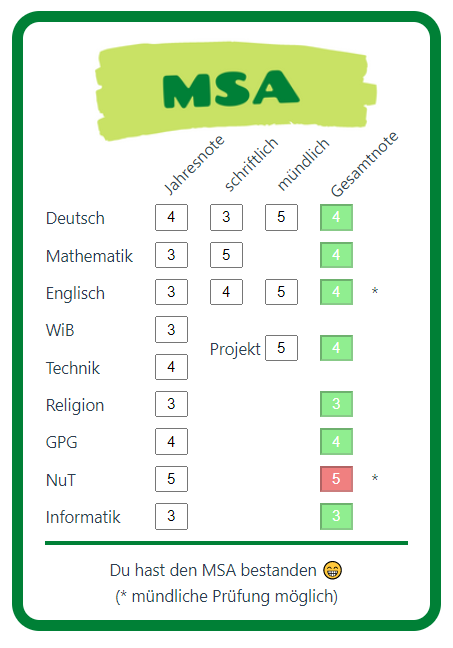
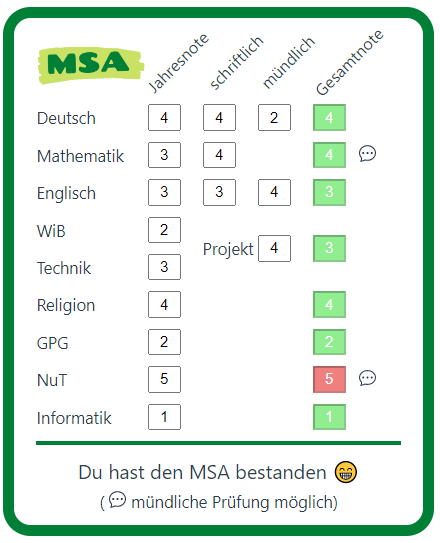
Styling angepasst.

diff --git a/src/components/Rechner.vue b/src/components/Rechner.vue
@@ -8,6 +8,8 @@ import FachGPG from "./FachGPG.vue";
 import FachNuT from "./FachNuT.vue";
 import FachInformatik from "./FachInformatik.vue";
 import Notenheader from "./Notenheader.vue";
+import IconMuendlich from "./icons/IconMuendlich.vue";
+import IconSmileyGood from "./icons/IconSmileyGood.vue";
 
 export default {
   components: {
@@ -19,6 +21,8 @@ export default {
     FachGPG,
     FachNuT,
     FachInformatik,
+    IconMuendlich,
+    IconSmileyGood,
     Notenheader,
   },
   mounted() {
@@ -57,7 +61,7 @@ export default {
       if (count5 > 1 || count6 > 0) {
         this.info = "Du hast den MSA nicht bestanden 😭";
       } else {
-        this.info = "Du hast den MSA bestanden 😁";
+        this.info = "Du hast den MSA bestanden 😁" ;
       }
     },
   },
@@ -75,10 +79,9 @@ export default {
   <FachNuT @getFachNote="handleGetGesamtNote"></FachNuT>
   <FachInformatik @getFachNote="handleGetGesamtNote"></FachInformatik>
   <div class="trenner"></div>
-
   <div>
-    <div style="text-align: center">{{ info }}</div>
-    <div style="text-align: center">(* mündliche Prüfung möglich)</div>
+    <div style="text-align: center; font-size: 1.2em;">{{ info }}</div>
+    <div style="text-align: center">( <IconMuendlich></IconMuendlich> mündliche Prüfung möglich)</div>
   </div>
 </template>
 

diff --git a/src/components/FachEnglisch.vue b/src/components/FachEnglisch.vue
@@ -32,19 +32,14 @@ export default {
       this[typ] = parseInt(note);
       this.calculateGesamtnote();
     },
-    /*let pruefungsnote = Math.round((this.schriftlich * 3 + this.muendlich) / 4);
-      console.log("Prüfungsnote " + pruefungsnote)
-      this.gesamtnote = Math.round((this.jahresnote + pruefungsnote) / 2);*/
     calculateGesamtnote() {
       let pruefungsnote = Math.round((this.schriftlich * 2 + this.muendlich) / 3);
       //Gesamtnote auf zwei Stellen gerundet
       let tempGesamtnote = Math.round(((this.jahresnote + pruefungsnote) / 2) * 100) / 100;
-      console.log("Gesamtnote Englisch: " + tempGesamtnote);
       //Prüfungsnote überwiegt?
       this.gesamtnote = this.gUpdatePruefungsnoteUeberwiegt(pruefungsnote, this.jahresnote, tempGesamtnote);
       //Mündliche Prüfung möglich?
       if (this.gIsMuendlichePruefungHauptfach(pruefungsnote, this.jahresnote, this.gesamtnote)) {
-        console.log("Mündliche Prüfung in Englisch möglich");
         this.info = "*";
       } else {
         this.info = "";
@@ -93,10 +88,4 @@ h3 {
   text-align: center;
 }
 
-@media (min-width: 1024px) {
-  .fach h1,
-  .fach h3 {
-    text-align: left;
-  }
-}
 </style>

diff --git a/src/components/FachDeutsch.vue b/src/components/FachDeutsch.vue
@@ -3,6 +3,7 @@ import Notenfeld from "./Notenfeld.vue";
 import Gesamtnote from "./Gesamtnote.vue";
 import globalFunctions from "./mixins/globalFunctions";
 import Notenplatzhalter from "./Notenplatzhalter.vue";
+
 import InfoIcon from "./InfoIcon.vue";
 
 export default {
@@ -37,12 +38,10 @@ export default {
       let pruefungsnote = Math.round((this.schriftlich * 3 + this.muendlich) / 4);
       //Gesamtnote auf zwei Stellen gerundet
       let tempGesamtnote = Math.round(((this.jahresnote + pruefungsnote) / 2) * 100) / 100;
-      console.log("Gesamtnote Deutsch: " + tempGesamtnote);
       //Prüfungsnote überwiegt?
       this.gesamtnote = this.gUpdatePruefungsnoteUeberwiegt(pruefungsnote, this.jahresnote, tempGesamtnote);
       //Mündliche Prüfung möglich?
       if (this.gIsMuendlichePruefungHauptfach(pruefungsnote, this.jahresnote, this.gesamtnote)) {
-        console.log("Mündliche Prüfung in Deutsch möglich");
         this.info = "*";
       } else {
         this.info = "";
@@ -92,10 +91,4 @@ h3 {
   text-align: center;
 }
 
-@media (min-width: 1024px) {
-  .fach h1,
-  .fach h3 {
-    text-align: left;
-  }
-}
 </style>

diff --git a/src/components/FachMathematik.vue b/src/components/FachMathematik.vue
@@ -35,12 +35,10 @@ export default {
       let pruefungsnote = this.schriftlich;
       //Gesamtnote auf zwei Stellen gerundet
       let tempGesamtnote = Math.round(((this.jahresnote + pruefungsnote) / 2) * 100) / 100;
-      console.log("Gesamtnote Mathematik: " + tempGesamtnote);
       //Prüfungsnote überwiegt?
       this.gesamtnote = this.gUpdatePruefungsnoteUeberwiegt(pruefungsnote, this.jahresnote, tempGesamtnote);
       //Mündliche Prüfung möglich?
       if (this.gIsMuendlichePruefungHauptfach(pruefungsnote, this.jahresnote, this.gesamtnote)) {
-        console.log("Mündliche Prüfung in Mathematik möglich");
         this.info = "*";
       } else {
         this.info = "";
@@ -89,10 +87,4 @@ h3 {
   text-align: center;
 }
 
-@media (min-width: 1024px) {
-  .fach h1,
-  .fach h3 {
-    text-align: left;
-  }
-}
 </style>

diff --git a/src/components/icons/IconMuendlich.vue b/src/components/icons/IconMuendlich.vue
@@ -1,0 +1,8 @@
+<template>
+  <svg xmlns="http://www.w3.org/2000/svg" width="16" height="16" fill="currentColor" class="bi bi-chat-dots" viewBox="0 0 16 16">
+    <path d="M5 8a1 1 0 1 1-2 0 1 1 0 0 1 2 0zm4 0a1 1 0 1 1-2 0 1 1 0 0 1 2 0zm3 1a1 1 0 1 0 0-2 1 1 0 0 0 0 2z" />
+    <path
+      d="m2.165 15.803.02-.004c1.83-.363 2.948-.842 3.468-1.105A9.06 9.06 0 0 0 8 15c4.418 0 8-3.134 8-7s-3.582-7-8-7-8 3.134-8 7c0 1.76.743 3.37 1.97 4.6a10.437 10.437 0 0 1-.524 2.318l-.003.011a10.722 10.722 0 0 1-.244.637c-.079.186.074.394.273.362a21.673 21.673 0 0 0 .693-.125zm.8-3.108a1 1 0 0 0-.287-.801C1.618 10.83 1 9.468 1 8c0-3.192 3.004-6 7-6s7 2.808 7 6c0 3.193-3.004 6-7 6a8.06 8.06 0 0 1-2.088-.272 1 1 0 0 0-.711.074c-.387.196-1.24.57-2.634.893a10.97 10.97 0 0 0 .398-2z"
+    />
+  </svg>
+</template>

diff --git a/src/components/icons/IconSmileyBad.vue b/src/components/icons/IconSmileyBad.vue
@@ -1,0 +1,8 @@
+<template>
+  <svg xmlns="http://www.w3.org/2000/svg" width="16" height="16" fill="currentColor" class="bi bi-chat-dots" viewBox="0 0 16 16">
+    <path d="M5 8a1 1 0 1 1-2 0 1 1 0 0 1 2 0zm4 0a1 1 0 1 1-2 0 1 1 0 0 1 2 0zm3 1a1 1 0 1 0 0-2 1 1 0 0 0 0 2z" />
+    <path
+      d="m2.165 15.803.02-.004c1.83-.363 2.948-.842 3.468-1.105A9.06 9.06 0 0 0 8 15c4.418 0 8-3.134 8-7s-3.582-7-8-7-8 3.134-8 7c0 1.76.743 3.37 1.97 4.6a10.437 10.437 0 0 1-.524 2.318l-.003.011a10.722 10.722 0 0 1-.244.637c-.079.186.074.394.273.362a21.673 21.673 0 0 0 .693-.125zm.8-3.108a1 1 0 0 0-.287-.801C1.618 10.83 1 9.468 1 8c0-3.192 3.004-6 7-6s7 2.808 7 6c0 3.193-3.004 6-7 6a8.06 8.06 0 0 1-2.088-.272 1 1 0 0 0-.711.074c-.387.196-1.24.57-2.634.893a10.97 10.97 0 0 0 .398-2z"
+    />
+  </svg>
+</template>

diff --git a/src/components/FachProjekt.vue b/src/components/FachProjekt.vue
@@ -32,10 +32,8 @@ export default {
     },
     calculateGesamtnote() {
       this.gesamtnote = Math.round((this.jahresnoteWiB + this.jahresnoteBoz + this.projektnote * 2) / 4);
-      console.log(this.gesamtnote);
       //Mündliche Prüfung? Wenn Jahresnote 5 oder 6 ist
       if (this.jahresnoteWiB >= 5 || this.jahresnoteBoz >= 5) {
-        console.log("Mündliche Prüfung in WiB/BoZ möglich");
         this.info = "*";
       } else {
         this.info = "";
@@ -111,10 +109,4 @@ h3 {
   text-align: center;
 }
 
-@media (min-width: 1024px) {
-  .fach h1,
-  .fach h3 {
-    text-align: left;
-  }
-}
 </style>

diff --git a/src/components/Notenheader.vue b/src/components/Notenheader.vue
@@ -1,6 +1,8 @@
 <script>
+import LogoMSA from "./LogoMSA.vue";
+
 export default {
-  components: {},
+  components: { LogoMSA },
   data() {
     return {};
   },
@@ -10,6 +12,7 @@ export default {
 
 <template>
   <div class="rowNotenHeader">
+    <LogoMSA></LogoMSA>
     <span>Jahresnote</span>
     <span>schriftlich</span>
     <span>mündlich</span>
@@ -23,9 +26,10 @@ span {
   margin-left: -15px;
 }
 .rowNotenHeader {
+  margin-top: 15px;
   width: 100%;
   display: flex;
   justify-content: flex-end;
-  margin-bottom: 25px;
+  /*margin-bottom: 25px;*/
 }
 </style>

diff --git a/src/components/FachReligion.vue b/src/components/FachReligion.vue
@@ -32,7 +32,6 @@ export default {
       this.gesamtnote = this.jahresnote;
       //Mündliche Prüfung? Wenn Jahresnote 5 oder 6 ist
       if (this.jahresnote >= 5) {
-        console.log("Mündliche Prüfung in Religion möglich");
         this.info = "*";
       } else {
         this.info = "";
@@ -79,12 +78,5 @@ h3 {
 .fach h1,
 .fach h3 {
   text-align: center;
-}
-
-@media (min-width: 1024px) {
-  .fach h1,
-  .fach h3 {
-    text-align: left;
-  }
 }
 </style>

diff --git a/src/components/FachInformatik.vue b/src/components/FachInformatik.vue
@@ -32,7 +32,6 @@ export default {
       this.gesamtnote = this.jahresnote;
       //Mündliche Prüfung? Wenn Jahresnote 5 oder 6 ist
       if (this.jahresnote >= 5) {
-        console.log("Mündliche Prüfung in Informatik möglich");
         this.info = "*";
       } else {
         this.info = "";
@@ -81,10 +80,4 @@ h3 {
   text-align: center;
 }
 
-@media (min-width: 1024px) {
-  .fach h1,
-  .fach h3 {
-    text-align: left;
-  }
-}
 </style>

diff --git a/src/components/FachGPG.vue b/src/components/FachGPG.vue
@@ -32,7 +32,6 @@ export default {
       this.gesamtnote = this.jahresnote;
       //Mündliche Prüfung? Wenn Jahresnote 5 oder 6 ist
       if (this.jahresnote >= 5) {
-        console.log("Mündliche Prüfung in GPG möglich");
         this.info = "*";
       } else {
         this.info = "";
@@ -81,10 +80,4 @@ h3 {
   text-align: center;
 }
 
-@media (min-width: 1024px) {
-  .fach h1,
-  .fach h3 {
-    text-align: left;
-  }
-}
 </style>

diff --git a/src/components/FachNuT.vue b/src/components/FachNuT.vue
@@ -32,7 +32,6 @@ export default {
       this.gesamtnote = this.jahresnote;
       //Mündliche Prüfung? Wenn Jahresnote 5 oder 6 ist
       if (this.jahresnote >= 5) {
-        console.log("Mündliche Prüfung in NuT möglich");
         this.info = "*";
       } else {
         this.info = "";
@@ -81,10 +80,4 @@ h3 {
   text-align: center;
 }
 
-@media (min-width: 1024px) {
-  .fach h1,
-  .fach h3 {
-    text-align: left;
-  }
-}
 </style>
